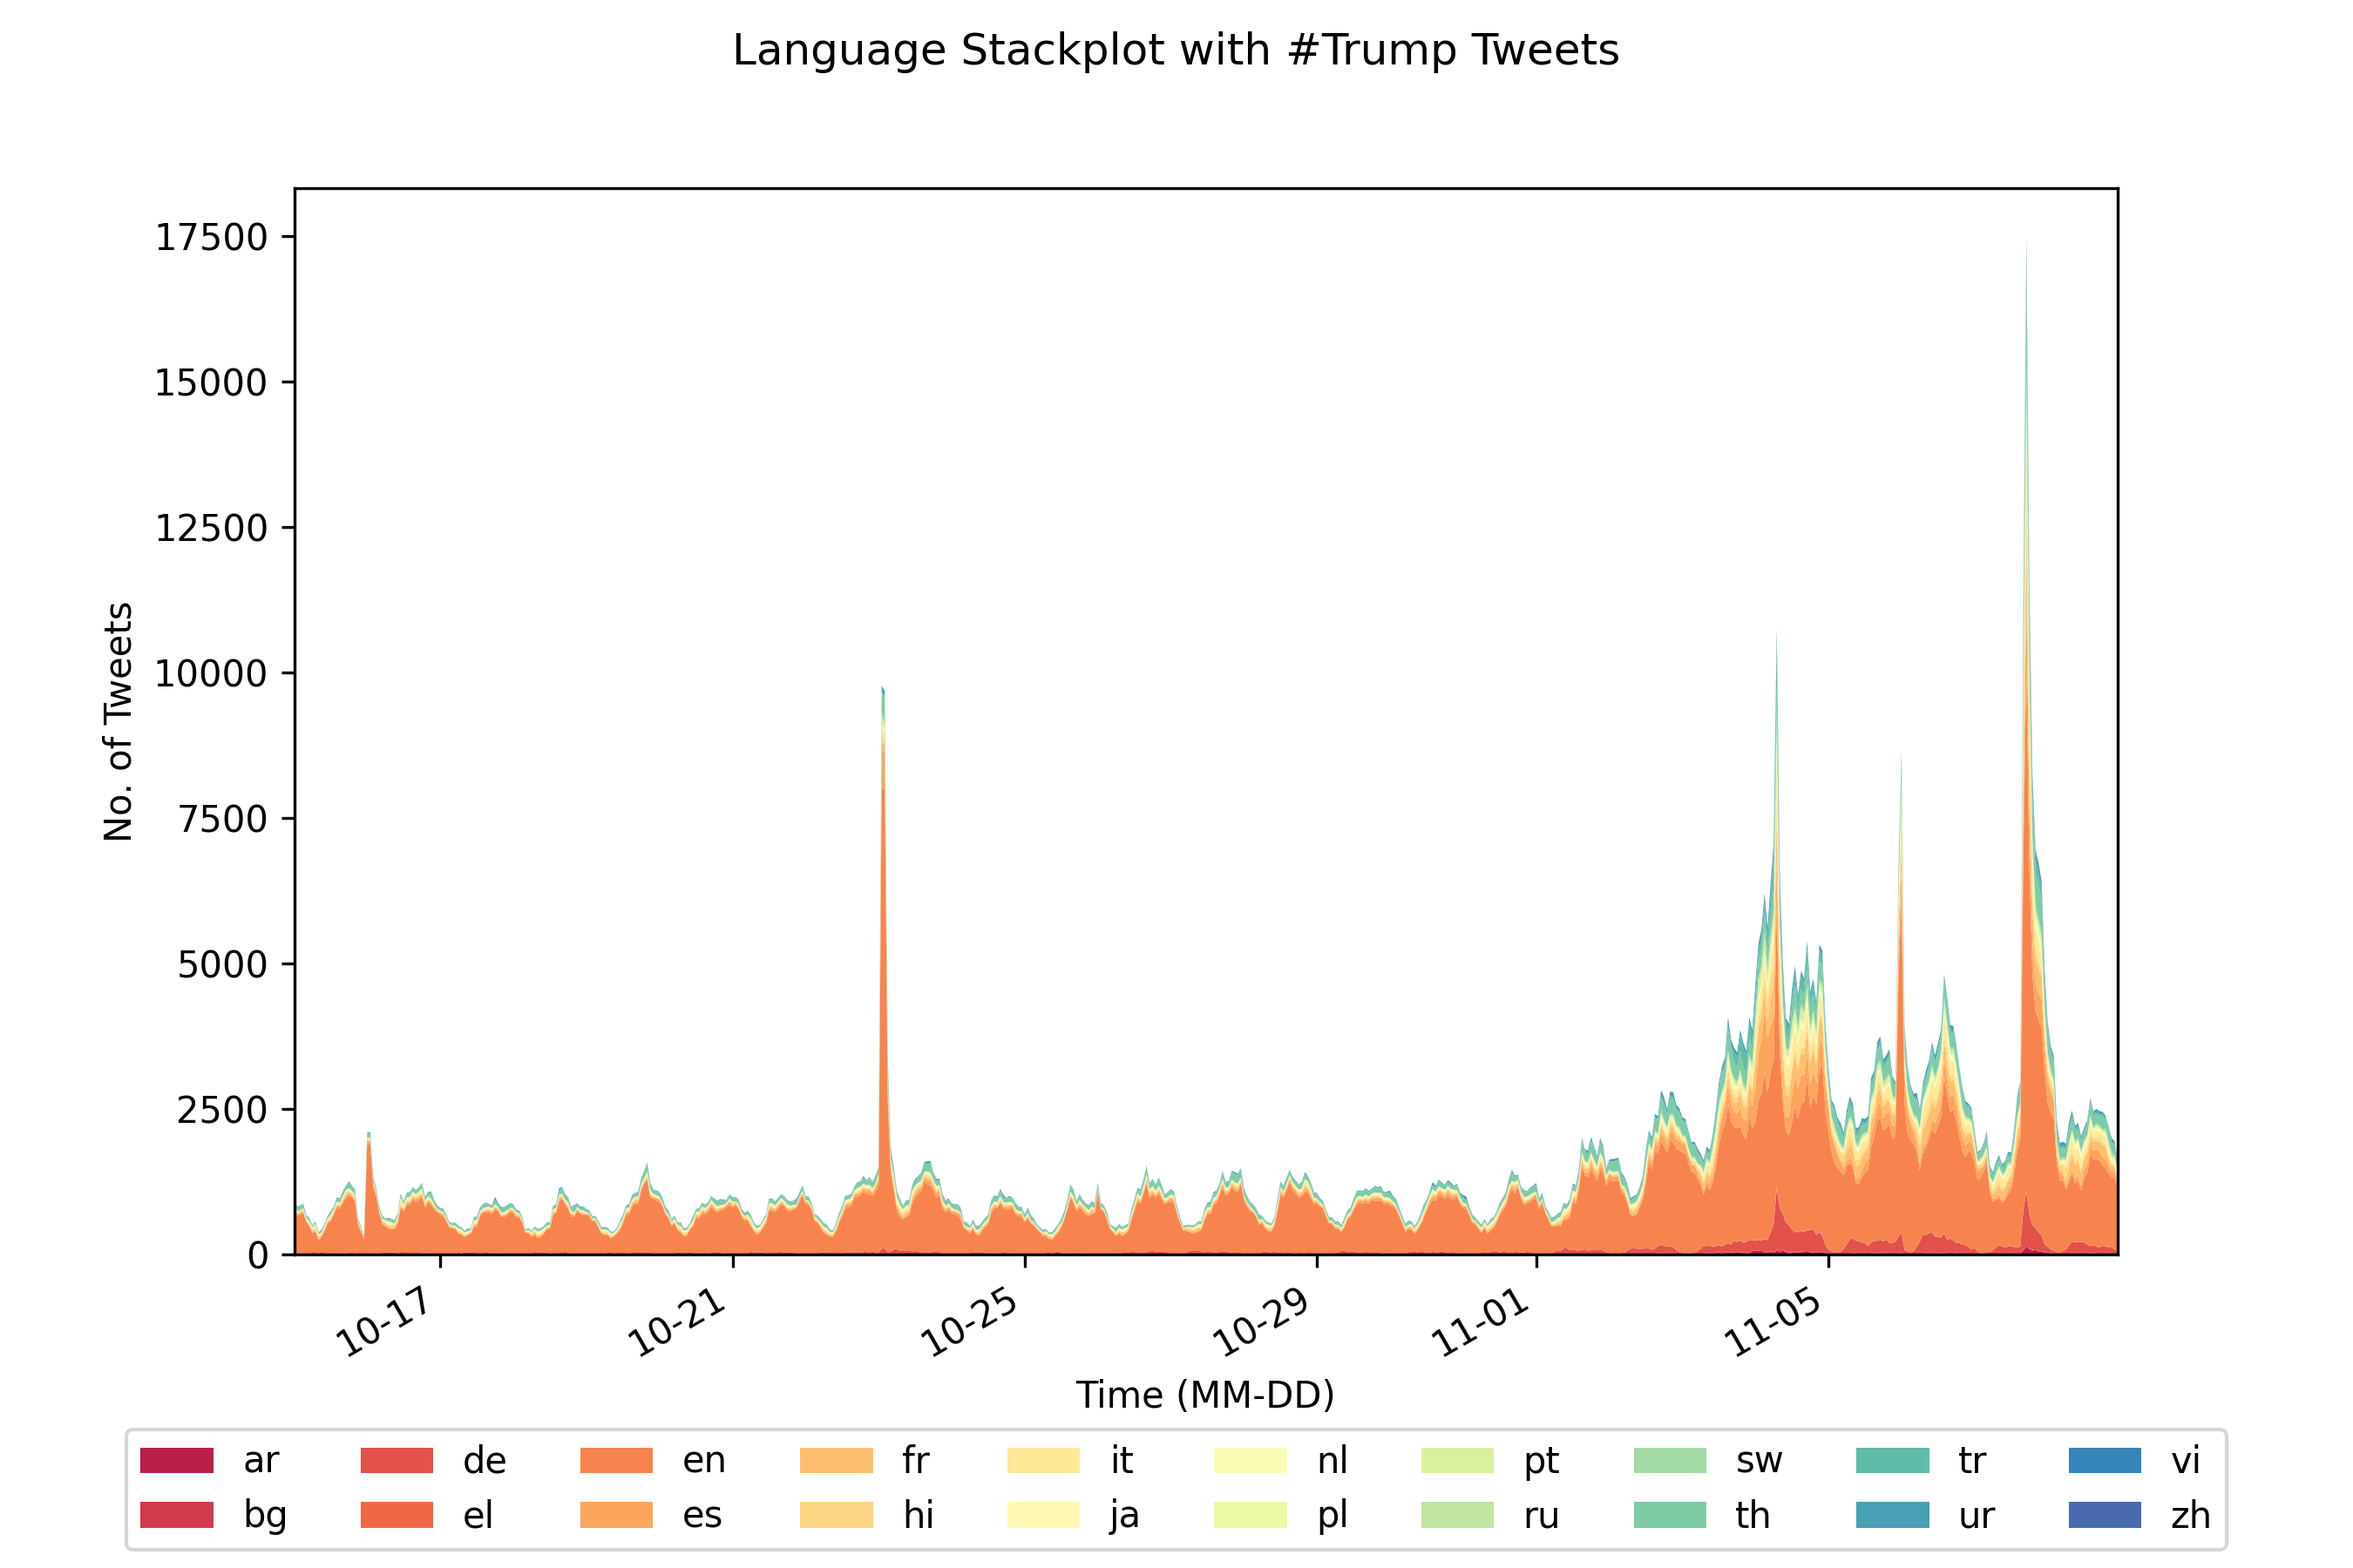
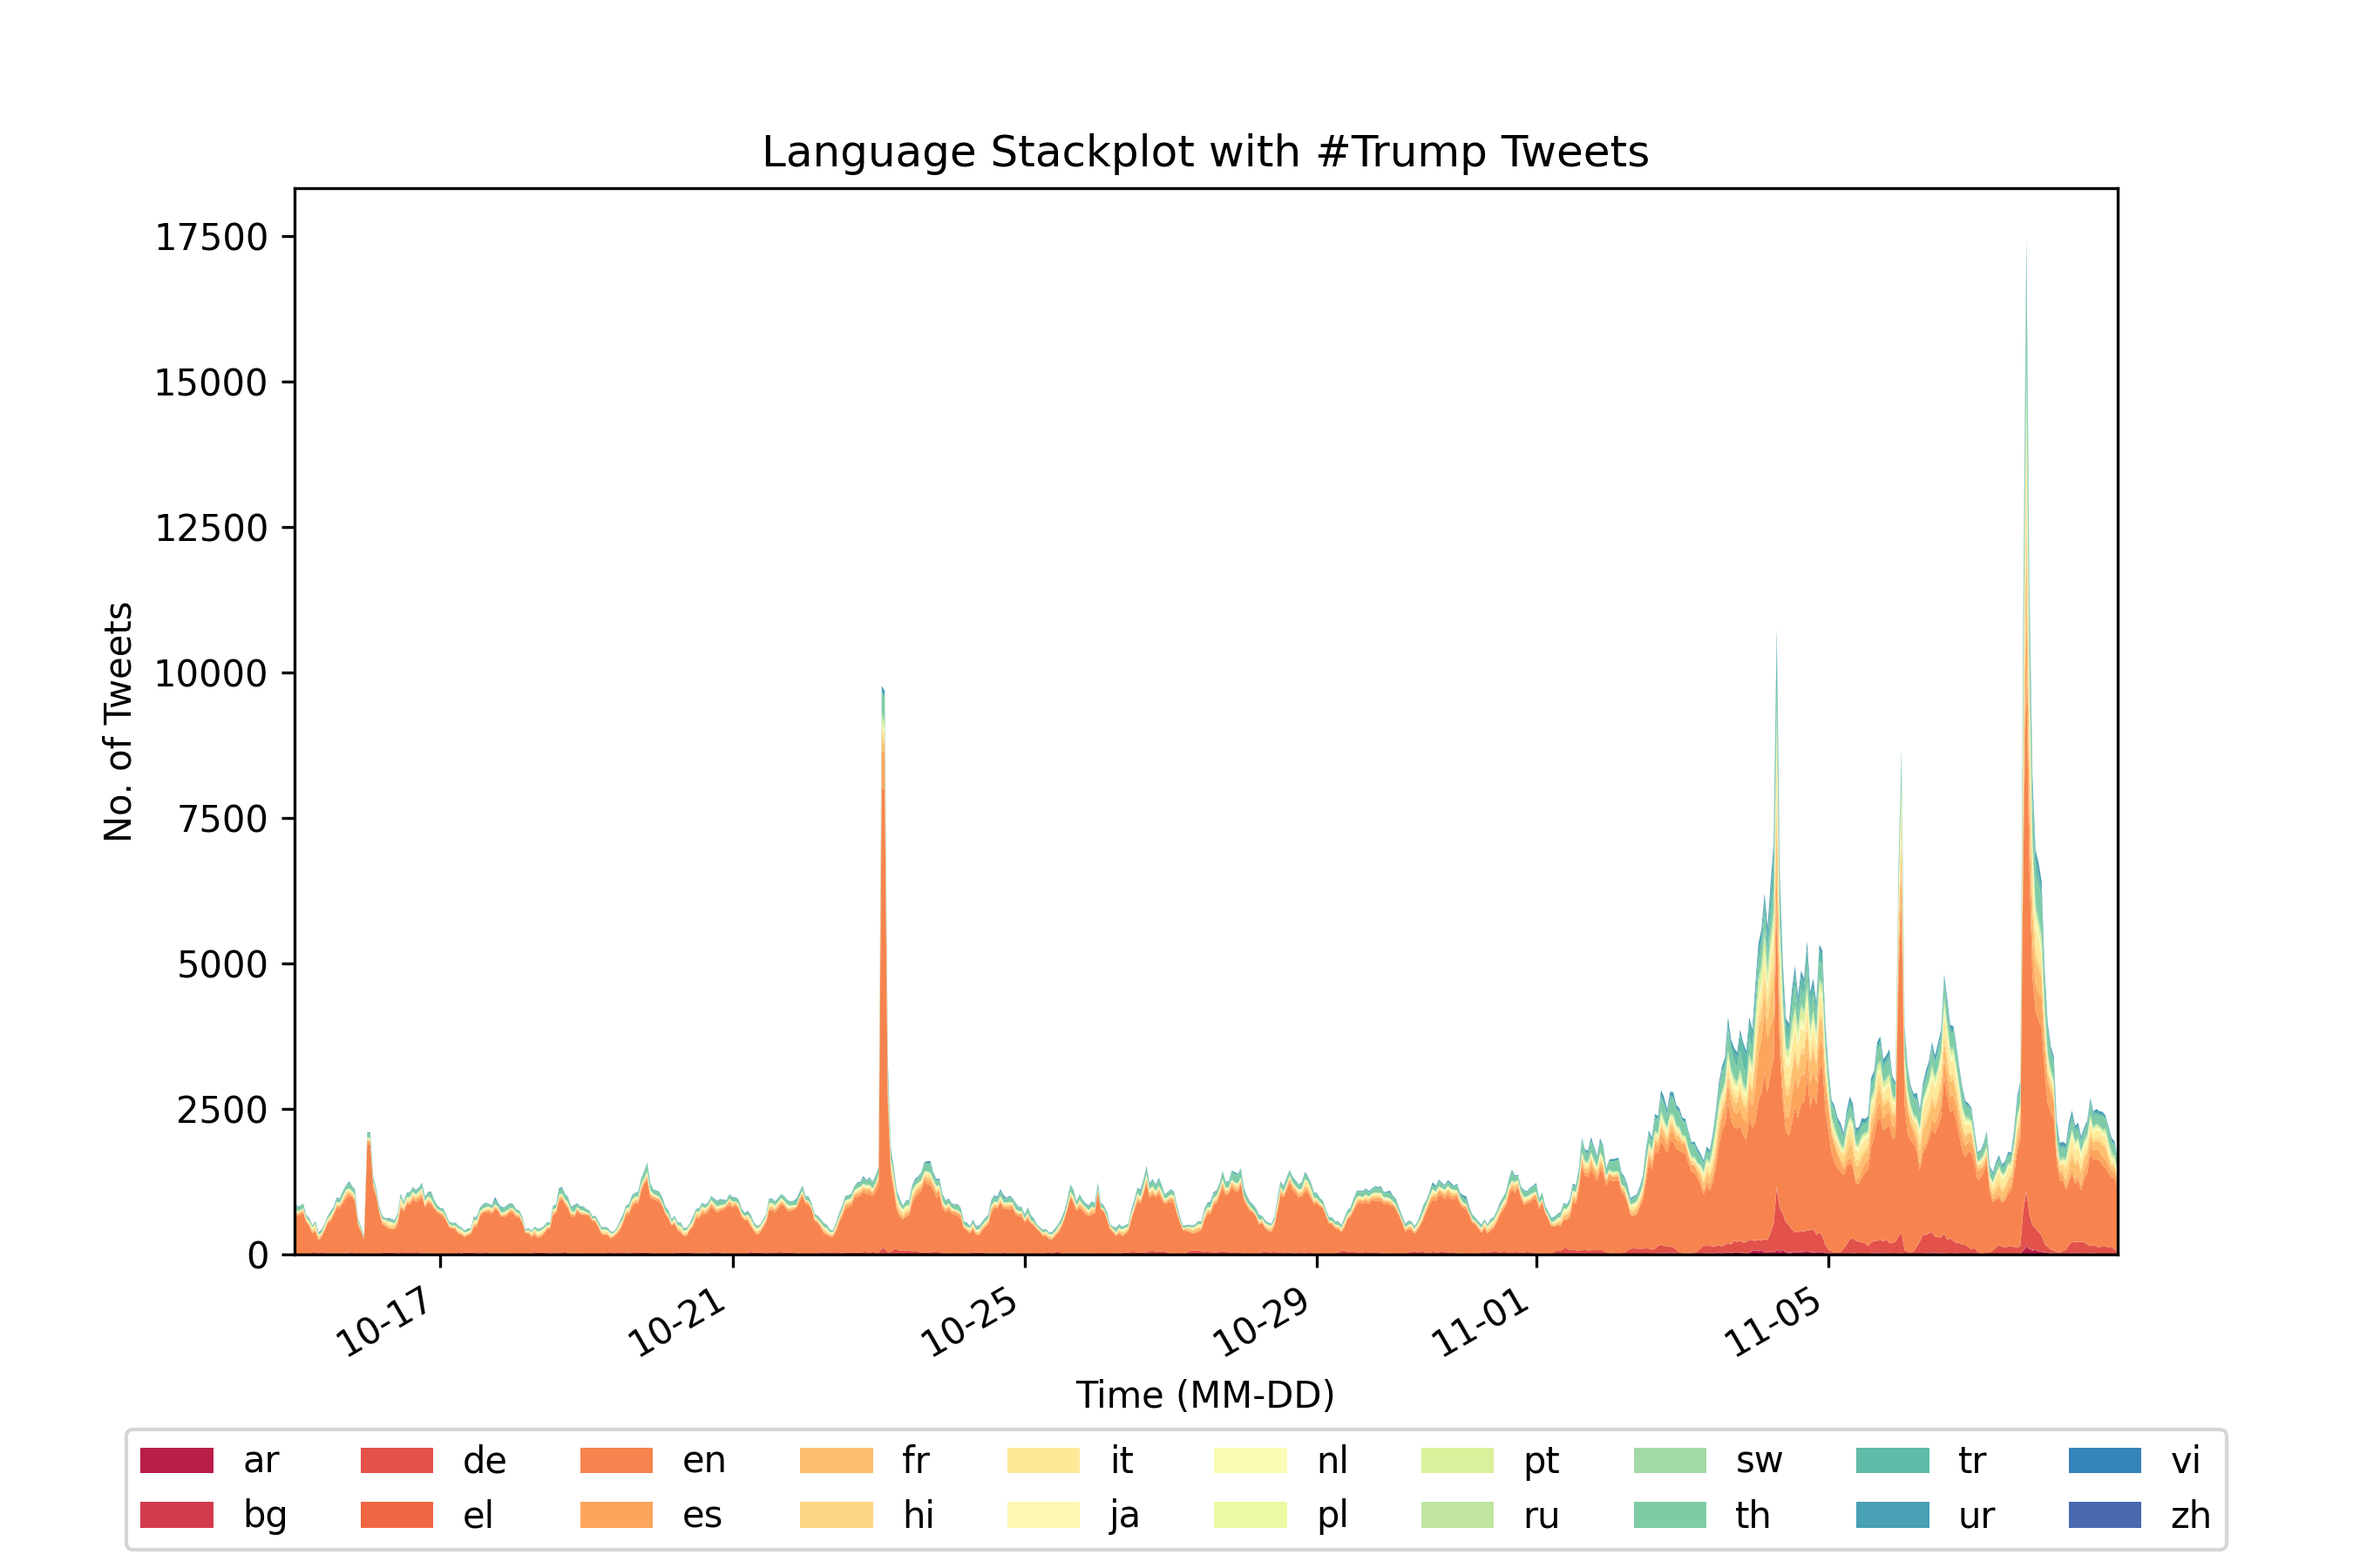
minor fixes and regenerate all images

Changed region(s): [[0.3422, 0.0933, 0.6844, 0.1244], [0.3111, 0.0311, 0.5289, 0.0622], [0.5911, 0.0311, 0.6844, 0.0622]]

diff --git a/figure_generator.py b/figure_generator.py
@@ -2,6 +2,7 @@ import os
 import logging
 
 from matplotlib.axes import Axes
+from matplotlib.figure import Figure
 from utils import load_data, CANDIDATES
 
 import numpy as np
@@ -10,147 +11,88 @@ import matplotlib.pyplot as plt
 from matplotlib.dates import DateFormatter
 import seaborn as sns
 
-from tqdm import tqdm
-from collections import defaultdict
 
-
-def save_stackplot(name: str, target: str, x, **kwargs):
-    os.makedirs(f"figures/percetage/{name}", exist_ok=True)
+def save_stackplot(name: str, target: str, ylabel: str, x, **kwargs) -> None:
+    """
+    Save a stackplot to `figures/<ylabel>` or `figures/quantity` folder
+    
+    Args:
+    - `name`: candidate name
+    - `target`: target column name (used in title and filename for saving). e.g. `<emotion> stackplot with #biden tweets`
+    - `ylabel`: if 'percentage', y axis will be in %, else in quantity (i.e. no. of tweets)
+    - `x`: x axis, usually time
+    - `kwargs`: key-value pairs of column name and its value, usually the value is a list of y axis
+    """
+    os.makedirs(f"figures/{ylabel}/{name}", exist_ok=True)
 
     fig, ax = plt.subplots(figsize=(9, 6), dpi=300)
+    
+    # declare type, this helps intellicode and pylint
+    fig: Figure = fig
     ax: Axes = ax
+
+    # plot stackplot
     ax.stackplot(x,
                  *list(kwargs.values()),
                  labels=list(k.split("_")[-1] for k in kwargs.keys()),
                  colors=sns.color_palette("Spectral", n_colors=len(kwargs))
                  )
     ax.set_xlabel('Time (MM-DD)')
-    ax.set_ylabel('Percentage (%)')
     ax.set_xlim(x[0], x[-1])
-    ax.set_ylim(0, 100)
-    fig.legend(loc='outside lower center', ncols=min(10, len(kwargs)))
-    fig.suptitle(
-        f'{target.replace("_", " ").title()} Percentage Stackplot'
-        f' with #{name.title()} Tweets')
-    ax.xaxis.set_major_formatter(DateFormatter('%m-%d'))
-    fig.autofmt_xdate()
 
-    # fig.tight_layout()
-    fig.savefig(f"figures/percetage/{name}/{target}.png")
-    fig.clear()
-
-
-def save_stackplot_raw(name: str, target: str, x, **kwargs):
-    os.makedirs(f"figures/quantity/{name}", exist_ok=True)
-
-    fig, ax = plt.subplots(figsize=(9, 6), dpi=300)
-    ax: Axes = ax
-    ax.stackplot(x,
-                 *list(kwargs.values()),
-                 labels=list(k.split("_")[-1] for k in kwargs.keys()),
-                 colors=sns.color_palette("Spectral", n_colors=len(kwargs))
-                 )
-    ax.set_xlabel('Time (MM-DD)')
-    ax.set_ylabel('No. of Tweets')
-    ax.set_xlim(x[0], x[-1])
-    ax.set_ylim(0)
-    fig.legend(loc='outside lower center', ncols=min(10, len(kwargs)))
-    fig.suptitle(
+    if ylabel == 'percentage':
+        ax.set_ylabel('Percentage (%)')
+        ax.set_ylim(0, 100)
+    elif ylabel == 'quantity':
+        ax.set_ylabel('No. of Tweets')
+        ax.set_ylim(0)
+    else:
+        ax.set_ylabel(ylabel)
+        ax.set_ylim(0)
+    ax.set_title(
         f'{target.replace("_", " ").title()} Stackplot'
         f' with #{name.title()} Tweets')
+
+    fig.legend(loc='outside lower center', ncols=min(10, len(kwargs)))
     ax.xaxis.set_major_formatter(DateFormatter('%m-%d'))
     fig.autofmt_xdate()
 
-    # fig.tight_layout()
-    fig.savefig(f"figures/quantity/{name}/{target}.png")
+    fig.savefig(f"figures/{ylabel}/{name}/{target}.png")
     fig.clear()
 
 
 def plot_candidate_multiclass(candidate_name: str, target_prefix: str = 'stance_biden'):
+    """
+    Plot the stackplot of each class of target_prefix
+    """
     # read and set 'created_at' precision to hour, which helps plotting
     # simply put, plot with xtick by each hour
     par_data = load_data(candidate_name)
     par_data['created_at'] = par_data['created_at'].dt.floor('H')
 
+    # get all columns with target_prefix
     target_col = sorted(list(filter(
         lambda x: x.startswith(target_prefix),
         par_data.columns
     )))
     assert target_col, f'no column found with prefix `{target_prefix}`'
 
+    # group by hour and sum up the count
     stats = par_data.groupby(['created_at'], sort=True)[target_col].sum()
     stats['hr_sum'] = stats.sum(axis=1).round()
 
-    save_stackplot_raw(candidate_name, target_prefix, stats.index, **{
-        col: stats[col]
-        for col in target_col
-    })
-
-
-def plot_candidate(candidate_name: str, target_col: str = 'sent'):
-    par_data = load_data(candidate_name)
-    if target_col not in par_data.columns:
-        raise ValueError(f'Column {target_col} not found in data')
-
-    # counter by value of the column with struct like:
-    # { column_value: { date: count } }
-    # e.g. { 'positive': { datetime(2020, 10, 1): 10 } }
-    # means there are 10 tweets with positive sentiment on 2020-10-1
-    counter_by_value = {
-        # value: counter
-        value: defaultdict(float)
-        for value in par_data[target_col].unique()
-    }
-    counter_by_date = defaultdict(int)
-
-    for idx, (dt_obj, col_val) in tqdm(par_data[['created_at', target_col]].iterrows(), total=par_data.shape[0], desc=candidate_name):
-        # logging.info(i, tweet_datetime, column_value)
-        if not isinstance(dt_obj, pd.Timestamp):
-            logging.error(f"err! At {idx}th type={type(dt_obj)}, val={dt_obj}")
-            continue
-
-        # truncate by hour, by setting min, s, ms to 0
-        # this avoids plotting too many xticks
-        # by minute is too sharp, by day is too coarse
-        dt_obj = dt_obj.replace(minute=0, second=0, microsecond=0)
-
-        counter_by_date[dt_obj] += 1
-        counter_by_value[col_val][dt_obj] += 1
-
-    x = list(sorted(counter_by_date.keys()))
-    for each_date in x:
-        total = counter_by_date[each_date]
-        for each_value in counter_by_value.keys():
-            counter_by_value[each_value][each_date] *= 100 / total
-
-    sorted_counter_by_value = {
-        value: [pct_daily for _, pct_daily in sorted(counter.items())]
-        for value, counter in sorted(counter_by_value.items())
-    }
-    # print(sorted_counter_by_value['neutral'])
-
-    plt.figure(figsize=(10, 5))
-    plt.stackplot(x,
-                  *tuple(sorted_counter_by_value.values()),
-                  labels=list(sorted_counter_by_value.keys()),
-                  colors=sns.color_palette(
-                      "Spectral",
-                      n_colors=len(sorted_counter_by_value))
-                  )
-    # plt.plot(x, yneg, color='#E6645C', linestyle='-')
-    # plt.plot(x, np.array(yneg) + np.array(yneu), color='#5CE687', linestyle='-')
-    plt.xlabel('Time (MM-DD)')
-    plt.ylabel('Percentage (%)')
-    plt.xlim(x[0], x[-1])
-    plt.ylim(0, 100)
-    plt.title(f'Tweets\' Sentiment Percentage with #{candidate_name.title()}')
-    plt.legend(loc='lower right', ncol=3)
-    plt.gca().xaxis.set_major_formatter(DateFormatter('%m-%d'))
-    plt.gcf().autofmt_xdate()
-
-    plt.tight_layout()
-    plt.savefig(f"figures/{candidate_name}_{target_col}.png", dpi=300)
-    plt.clf()
+    # run a percentage plot
+    save_stackplot(candidate_name, target_prefix, 'percentage',
+                   x=stats.index, **{
+                       col: stats[col] / stats['hr_sum'] * 100
+                       for col in target_col
+                   })
+    # run a quantity plot
+    save_stackplot(candidate_name, target_prefix, 'quantity',
+                   x=stats.index, **{
+                       col: stats[col]
+                       for col in target_col
+                   })
 
 
 if __name__ == '__main__':
